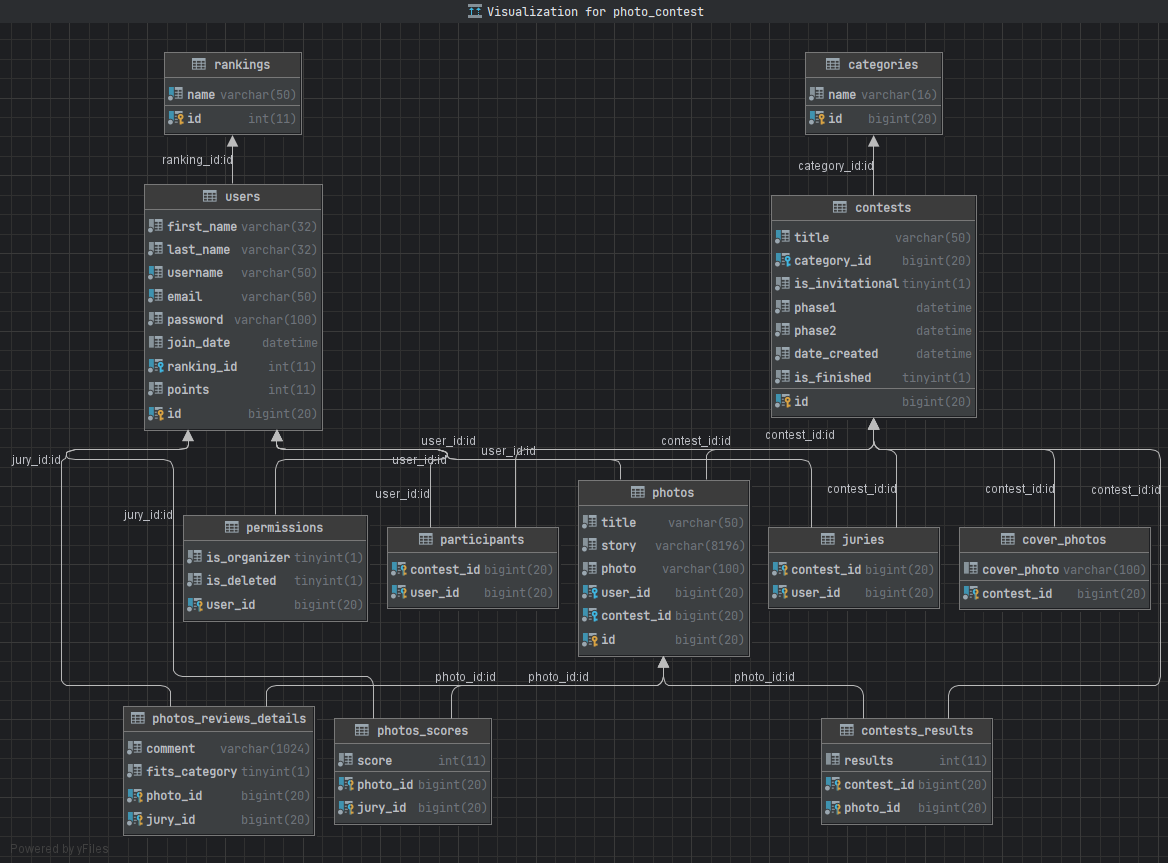
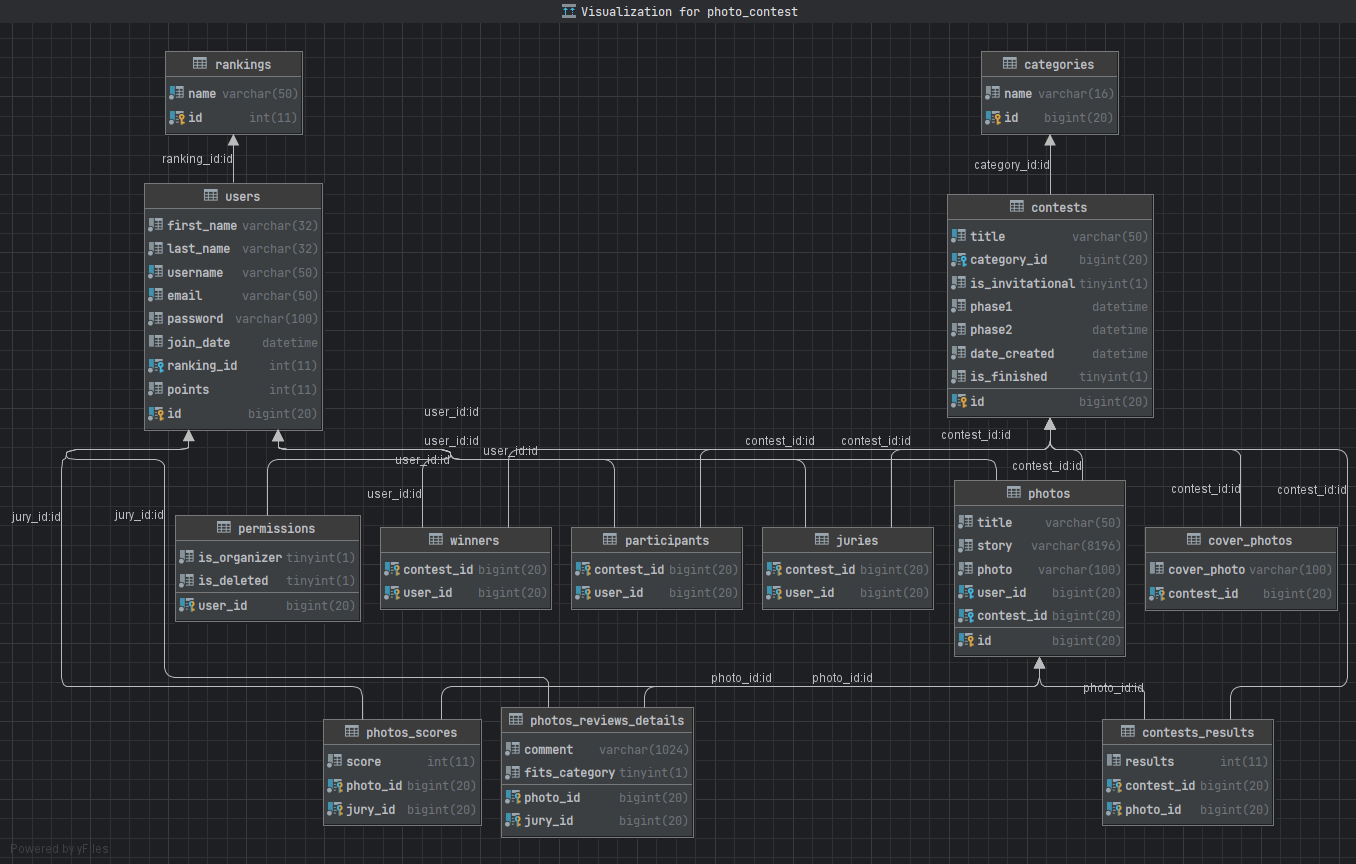
feat: Added winners table
Implemented showing winners and uploaded photo in user dashboard

diff --git a/src/main/resources/templates/index.html b/src/main/resources/templates/index.html
@@ -27,7 +27,8 @@
                         <div th:classappend="${contestIndex.index == 0} ? 'carousel-item active' : 'carousel-item'" data-bs-interval="2000">
                             <img src="#" th:src="${contest.winners[0].get('photo')}" class="d-block mx-auto w-75" alt="Winner of the contest" />
                             <div class="carousel-caption d-none d-md-block">
-                                <h5 class="text-warning" th:text="${contest.winners[0].get('userCreated')}">User (design)</h5>
+                                <h5 class="text-muted" th:if="${#strings.startsWith(contest.winners[0].get('userCreated'), 'deleted')}">anonymous</h5>
+                                <h5 class="text-warning" th:unless="${#strings.startsWith(contest.winners[0].get('userCreated'), 'deleted')}" th:text="${contest.winners[0].get('userCreated')}">User (design)</h5>
                                 <div class="btn-group">
                                     <button type="button" class="btn btn-warning">Score</button>
                                     <button type="button" class="btn btn-outline-warning" th:text="${contest.winners[0].get('totalScore')}">Score (design)</button>

diff --git a/src/main/resources/templates/ContestView.html b/src/main/resources/templates/ContestView.html
@@ -95,7 +95,8 @@
                     <button type="button" class="btn btn-sm btn-outline-warning" data-bs-toggle="modal" data-bs-target="#photoView">View</button>
                     <button th:if="${phase1 && session.user.organizer}" type="button" class="btn btn-sm btn-outline-danger" data-bs-toggle="modal" data-bs-target="#deletePhotoModal" th:data-bs-target="'#deletePhotoModal-' + ${photo.get('id')}">Delete</button>
                   </div>
-                  <a class="link-warning" href="#" th:href="@{/users/{id}(id=${photo.get('userId')})}" th:text="${photo.get('userCreated')}">Username (design)</a>
+                  <span class="text-muted" th:if="${#strings.startsWith(photo.get('userCreated'), 'deleted')}">anonymous</span>
+                  <a class="link-warning" href="#" th:unless="${#strings.startsWith(photo.get('userCreated'), 'deleted')}" th:href="@{/users/{id}(id=${photo.get('userId')})}" th:text="${photo.get('userCreated')}">Username (design)</a>
                 </div>
 
                 <!-- Modal Window for Delete Photo Confirmation -->

diff --git a/src/main/resources/templates/UserView.html b/src/main/resources/templates/UserView.html
@@ -234,6 +234,7 @@
                     <div>
                       <i class="bi bi-people"></i>
                       <span th:text="${contest.participants.size()}"></span><br>
+                      <i th:if="${contest.winners.contains(user)}" class="bi bi-trophy-fill" style="font-size: 2rem"></i>
                     </div>
                   </div>
                 </a>

diff --git a/src/main/java/com/telerikacademy/web/photocontest/scheduler/ContestScheduler.java b/src/main/java/com/telerikacademy/web/photocontest/scheduler/ContestScheduler.java
@@ -6,13 +6,13 @@ import com.telerikacademy.web.photocontest.services.contracts.ContestServices;
 import com.telerikacademy.web.photocontest.services.contracts.PhotoServices;
 import lombok.AllArgsConstructor;
 import lombok.extern.slf4j.Slf4j;
-import org.hibernate.Hibernate;
 import org.springframework.scheduling.annotation.EnableScheduling;
 import org.springframework.scheduling.annotation.Scheduled;
 import org.springframework.stereotype.Component;
 
 import java.time.LocalDateTime;
 import java.util.*;
+import java.util.stream.Collectors;
 
 import static com.telerikacademy.web.photocontest.helpers.ScoringHelper.awardPoints;
 
@@ -39,7 +39,8 @@ public class ContestScheduler {
                 results.add(result);
             });
 
-            calculateScore(results);
+            List<User> users = calculateScore(results);
+            contest.setWinners(new HashSet<>(users));
 
             contest.setResults(results);
             contest.setIsFinished(true);
@@ -47,7 +48,7 @@ public class ContestScheduler {
         }
     }
 
-    private void calculateScore(Set<ContestResults> results) {
+    private List<User> calculateScore(Set<ContestResults> results) {
         List<ContestResults> sortedResults = results.stream()
                 .sorted(Comparator.comparing(ContestResults::getResults).reversed()).toList();
 
@@ -58,12 +59,35 @@ public class ContestScheduler {
 
         Map<Integer, Integer> pointsList = awardPoints(resultList);
 
+        List<User> users = getWinners(sortedResults, pointsList);
+
         for (int i = 0; i < resultList.size(); i++) {
             ContestResults contestResults = sortedResults.get(i);
 
             User user = contestResults.getResultEmbed().getPhoto().getUserCreated();
+
             user.setPoints(user.getPoints() + pointsList.get(i));
             contestServices.evaluateRank(user);
         }
+
+        return users;
+    }
+
+    private static List<User> getWinners(List<ContestResults> sortedResults, Map<Integer, Integer> pointsList) {
+
+        List<User> users = new ArrayList<>();
+
+        int maxValue = pointsList.values().stream().mapToInt(integer -> integer).max().orElse(0);
+
+        Map<Integer, Integer> onlyMaxPoints = pointsList.entrySet().stream()
+                .filter(entry -> entry.getValue() == maxValue).collect(Collectors.toMap(Map.Entry::getKey, Map.Entry::getValue));
+
+        for (int i = 0; i < onlyMaxPoints.size(); i++) {
+            ContestResults contestResults = sortedResults.get(i);
+            User user = contestResults.getResultEmbed().getPhoto().getUserCreated();
+            users.add(user);
+        }
+
+        return users;
     }
 }

diff --git a/src/main/java/com/telerikacademy/web/photocontest/models/Contest.java b/src/main/java/com/telerikacademy/web/photocontest/models/Contest.java
@@ -72,6 +72,15 @@ public class Contest {
     @JsonIgnore
     @OneToMany(mappedBy = "resultEmbed.contest", cascade = CascadeType.ALL)
     private Set<ContestResults> results = new HashSet<>();
+
+    @ManyToMany(fetch = FetchType.EAGER, cascade = CascadeType.MERGE)
+    @JoinTable(
+            name = "winners",
+            joinColumns = @JoinColumn(name = "contest_id"),
+            inverseJoinColumns = @JoinColumn(name = "user_id")
+    )
+    private Set<User> winners;
+
     @Override
     public boolean equals(Object o) {
         if (this == o) return true;
